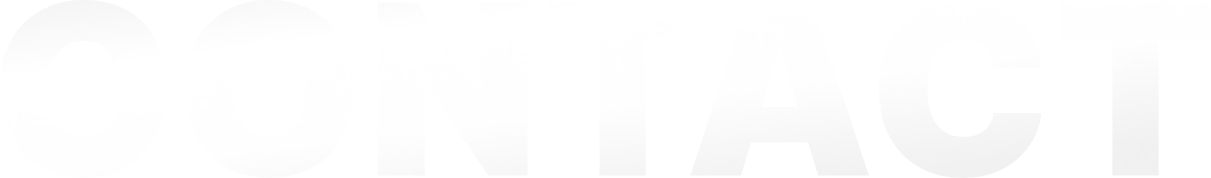
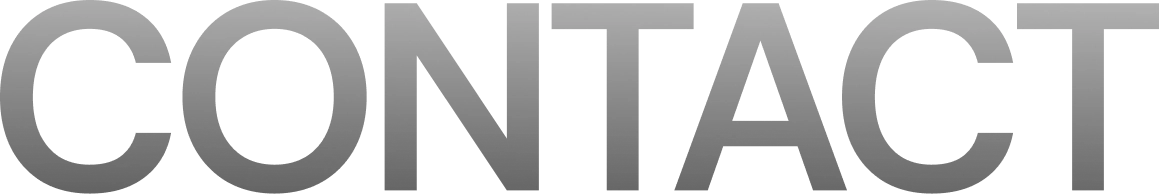
Initial push

diff --git a/src/pages/Contact/ContactSection.tsx b/src/pages/Contact/ContactSection.tsx
@@ -53,7 +53,7 @@ const ContactComponent: React.FC = () => {
     >
 
       {/* Background Text */}
-     <div className="absolute hidden sm:block sm:top-[123px] w-full md:w-[74vw] sm:w-[74vw] flex justify-center pointer-events-none">
+     <div className="absolute hidden opacity-20 sm:block sm:top-[123px] w-full md:w-[74vw] sm:w-[74vw] flex justify-center pointer-events-none">
             <img src="/contact.webp" alt="contact" />
       </div>
 
@@ -61,13 +61,13 @@ const ContactComponent: React.FC = () => {
       <div className="relative z-10 w-full max-w-6xl mx-auto grid grid-cols-1 md:grid-cols-2 gap-10 items-start">
 
         {/* LEFT SIDE */}
-        <div className="flex flex-col gap-10 top-10 relative md:mt-2">
+        <div className="flex flex-col gap-10 top-10 relative md:top-0 md:mt-12">
 
           {/* Header */}
           <div className="flex flex-col gap-4">
             <button
               onClick={() => setShowInfo(true)}
-              className="flex items-center gap-1 bg-[#D9D9D9]/21 border border-white/30 px-2` py-2 hover:bg-[#D9D9D9]/31 rounded-lg w-fit"
+              className="flex items-center gap-1 bg-[#D9D9D9]/21 border border-white/30 px-2 py-2 hover:bg-[#D9D9D9]/31 rounded-lg w-fit"
             >
               <QuestionMarkCircleIcon className="w-5 h-5" />
               <span className="text-[13px] font-semibold">
@@ -127,7 +127,7 @@ const ContactComponent: React.FC = () => {
         </div>
 
         {/* RIGHT SIDE */}
-        <div className="w-full md:mt-1.5 top-10 relative">
+        <div className="w-full top-10 relative md:top-0 md:mt-12">
           <div className="w-full lg:max-w-[550px]   bg-[#D9D9D9]/21 border border-white/10 rounded-[10px] p-6 md:p-8 text-[#8B8B8B]">
 
             <AnimatePresence mode="wait">
@@ -150,7 +150,7 @@ const ContactComponent: React.FC = () => {
                       type="text"
                       name="name"
                       required
-                      placeholder="John Doe"
+                      placeholder="User name"
                       className="w-full p-3 py-4 rounded-[10px] bg-[#A0A0A0]/5 border border-white/10 text-sm outline-none"
                     />
                   </div>
@@ -163,7 +163,7 @@ const ContactComponent: React.FC = () => {
                       type="email"
                       name="email"
                       required
-                      placeholder="example@gmail.com"
+                      placeholder="Example@gmail.com"
                       className="w-full p-3 py-4 rounded-[10px] bg-[#A0A0A0]/5 border border-white/10 text-sm outline-none"
                     />
                   </div>

diff --git a/src/components/Branding/Branding3.tsx b/src/components/Branding/Branding3.tsx
@@ -22,8 +22,8 @@ const Branding3: React.FC = () => {
     "/branding3(1).webp",
     "/branding3(2).webp",
     "/branding3(3).webp",
+    "/branding3(4).webp",
     "/branding3(5).webp",
-    "/brand.webp",
   ];
 
   const [loaded, setLoaded] = useState<Record<number, boolean>>({});
